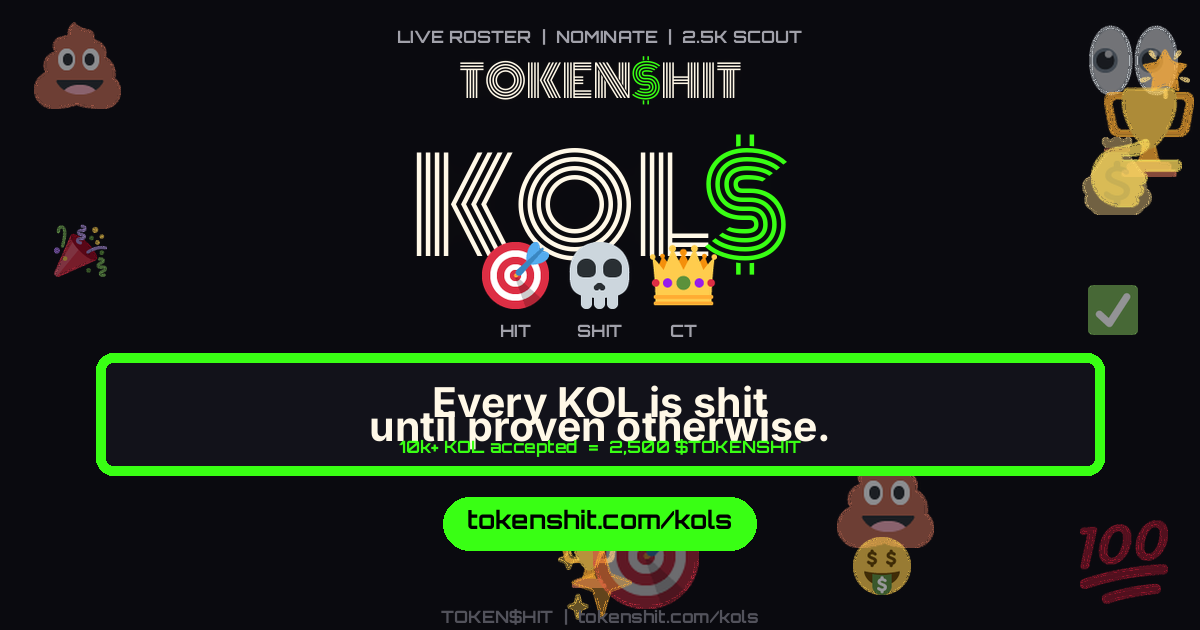
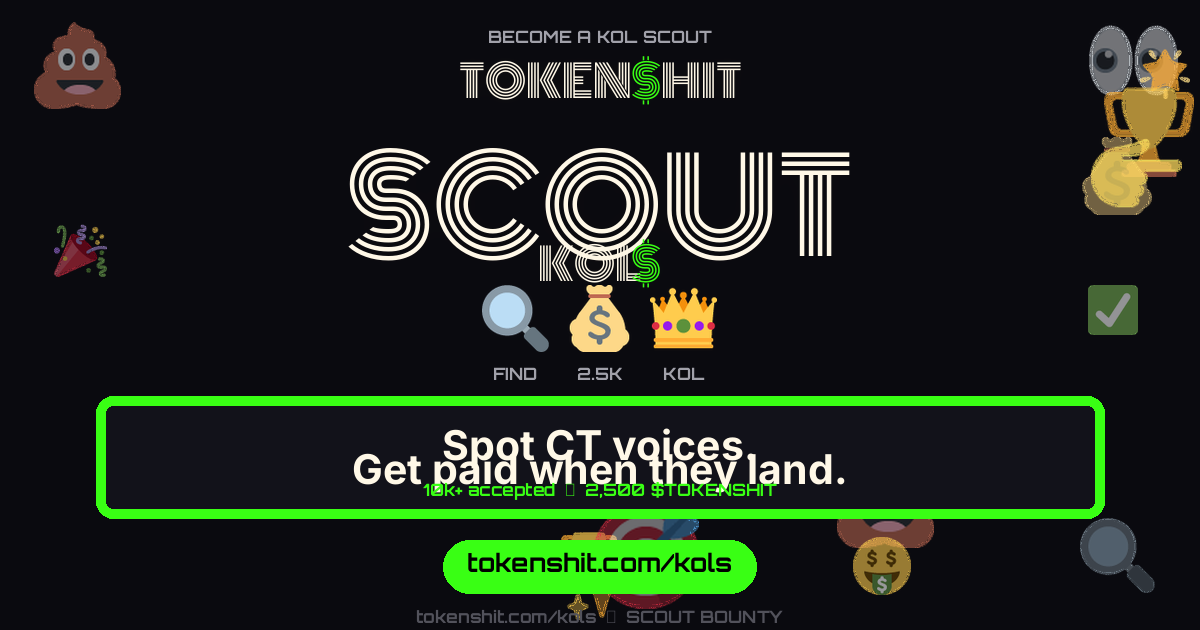
feat: KOL poster framed as scout job — find CT, earn 2.5k
Hero SCOUT · spot voices · paid when they land · FIND/2.5K/KOL

Changed region(s): [[0.0617, 0.2111, 0.9867, 0.9952], [0.3392, 0.0302, 0.6783, 0.0905]]

diff --git a/scripts/generate-kols-poster.py b/scripts/generate-kols-poster.py
@@ -29,7 +29,7 @@ AMBER = (251, 191, 36)
 SCATTER = [
     "1f3af", "1f480", "1f4a9", "1f525", "1f4b0", "1f389", "1f680",
     "2728", "2b50", "1f3c6", "1f49a", "2705", "1f449", "1f4af",
-    "1f31f", "1f48e", "1f911", "1f451", "1f440", "1f575",  # detective if available
+    "1f31f", "1f48e", "1f911", "1f451", "1f440", "1f575", "1f50d",
 ]
 
 
@@ -158,7 +158,7 @@ def make_poster(size: tuple[int, int], tag: str) -> Image.Image:
         y = int(h * 0.04)
 
     # eyebrow
-    eye = "LIVE ROSTER  |  NOMINATE  |  2.5K SCOUT"
+    eye = "BECOME A KOL SCOUT"
     ew = text_w(orb_sm, eye)
     draw.text(((w - ew) // 2, y), eye, font=orb_sm, fill=MUTED)
     y += fs(36)
@@ -175,23 +175,30 @@ def make_poster(size: tuple[int, int], tag: str) -> Image.Image:
     draw_glow_text(img, (x0, y), t2, f, CREAM, GOLD, glow_r=10)
     y += fs(100)
 
-    # KOL$ hero — cream KOL + neon $ (tight advance widths)
+    # SCOUT hero — cream SCOUT + optional neon accent
     f = mono_xl if h / w < 1.4 else mono_lg
     if h >= 1300 and w <= 1200:
         f = mono_xl
-    parts = [("KOL", CREAM, GOLD), ("$", NEON, NEON)]
-    total = sum(text_w(f, t_) for t_, _, _ in parts)
-    # slight negative tracking so $ sits snug
-    track = -fs(8)
-    total += track * (len(parts) - 1)
+    # slightly smaller if needed to fit "SCOUT"
+    if text_w(f, "SCOUT") > w * 0.9:
+        f = mono_lg
+    hero = "SCOUT"
+    total = text_w(f, hero)
     hx = (w - total) // 2
+    draw_glow_text(img, (hx, y), hero, f, CREAM, GOLD, glow_r=20)
+    y += fs(200)
+    # sub-hero KOL$ line
+    f2 = mono_sm
+    parts = [("KOL", CREAM, GOLD), ("$", NEON, NEON)]
+    total2 = sum(text_w(f2, t_) for t_, _, _ in parts) - fs(6)
+    hx2 = (w - total2) // 2
     for i, (t_, fill, glow) in enumerate(parts):
-        draw_glow_text(img, (hx, y), t_, f, fill, glow, glow_r=20)
-        hx += text_w(f, t_) + track
-    y += fs(220)
+        draw_glow_text(img, (hx2, y), t_, f2, fill, glow, glow_r=12)
+        hx2 += text_w(f2, t_) - fs(6)
+    y += fs(90)
 
     # feature row: target skull crown
-    feats = [("1f3af", "HIT"), ("1f480", "SHIT"), ("1f451", "CT")]
+    feats = [("1f50d", "FIND"), ("1f4b0", "2.5K"), ("1f451", "KOL")]
     gap = fs(28)
     icons = []
     for cp, lab in feats:
@@ -217,10 +224,10 @@ def make_poster(size: tuple[int, int], tag: str) -> Image.Image:
     pad = int(w * 0.08)
     card_top = y + fs(10)
     lines = [
-        "Every KOL is shit",
-        "until proven otherwise.",
+        "Spot CT voices.",
+        "Get paid when they land.",
     ]
-    sub = "10k+ KOL accepted  =  2,500 $TOKENSHIT"
+    sub = "10k+ accepted  →  2,500 $TOKENSHIT"
     card_h = fs(200) if wide else fs(340)
     rounded_rect(
         draw,
@@ -263,13 +270,13 @@ def make_poster(size: tuple[int, int], tag: str) -> Image.Image:
     y += ch + fs(28)
 
     # footer
-    foot = "SCOUT 2.5K  |  NOMINATE  |  HIT OR SHIT"
+    foot = "FIND  ·  NOMINATE  ·  CASH OUT"
     if not wide:
         fw = text_w(orb_sm, foot)
         draw.text(((w - fw) // 2, min(y, h - fs(50))), foot, font=orb_sm, fill=DIM)
 
     # bottom brand strip safe
-    url2 = "TOKEN$HIT  |  tokenshit.com/kols"
+    url2 = "tokenshit.com/kols  ·  SCOUT BOUNTY"
     u2w = text_w(orb_sm, url2)
     draw.text(((w - u2w) // 2, h - fs(42)), url2, font=orb_sm, fill=DIM)
 
